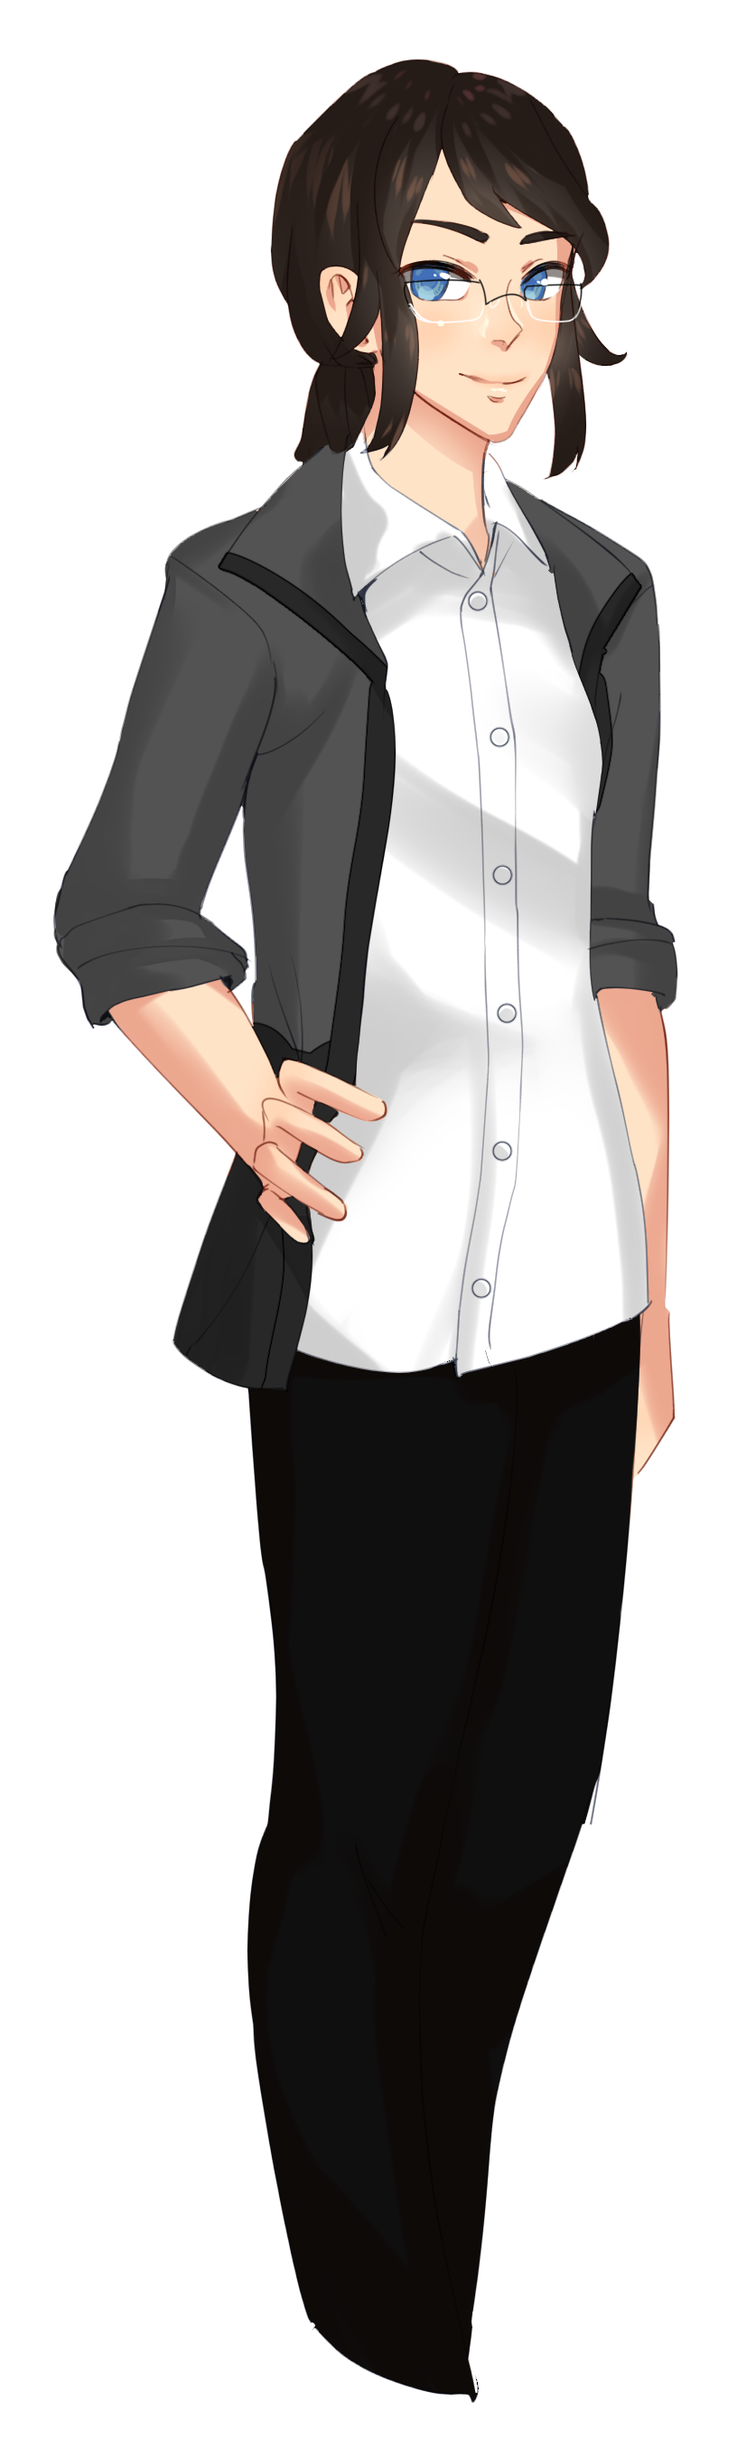
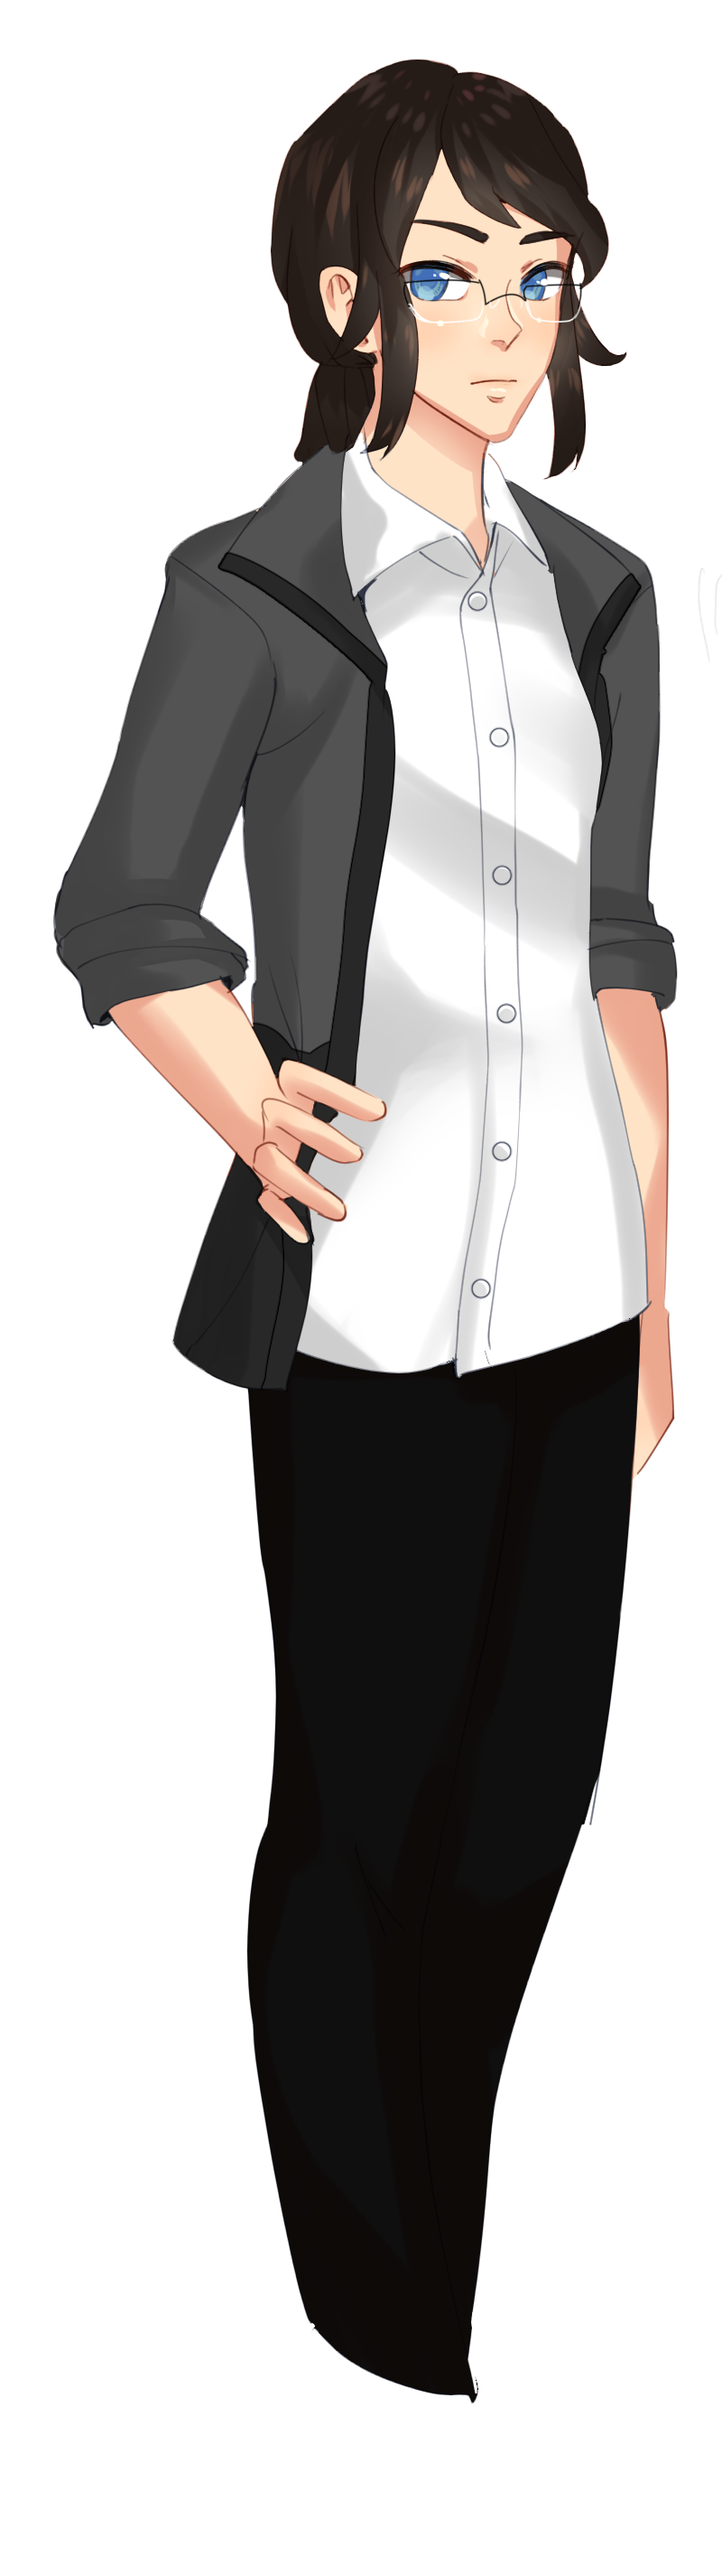
added images and changed css to fit ryders images

diff --git a/src/cutie/delta.ts b/src/cutie/delta.ts
@@ -28,7 +28,14 @@ export enum TriggerType {
 // ------ NOTE: This is an example implementation of a sequence of deltas
 // ------       For more complex behaviors, some sort of class that generates a tree of these is probably necessary
 const holmes1: Delta = {
-  character: CutieName.HOLMES,
+  character: null,
+  expression: CutieExpression.NEUTRAL,
+  background: BackgroundState.ROOM_DAY,
+  text: 'Let\'s begin, shall we?'
+} as Delta
+
+const ryder1: Delta = {
+  character: null,
   expression: CutieExpression.NEUTRAL,
   background: BackgroundState.ROOM_DAY,
   text: 'Let\'s begin, shall we?'
@@ -57,7 +64,7 @@ const holmesMorning: Delta = {
 
 const holmesDay: Delta = {
   character: null,
-  expression: CutieExpression.CURIOUS,
+  expression: CutieExpression.HAPPY,
   background: BackgroundState.ROOM_DAY,
   text: 'Did you get lunch yet?'
 } as Delta

diff --git a/src/cutie/gui.ts b/src/cutie/gui.ts
@@ -43,6 +43,8 @@ export class CutieGui {
      * @param expression: The corresponding expression to load
      */
   public changeExpression (expression: CutieExpression) {
+    console.log(images);
+    console.log(`./cutie_images/${this.cutieName}/${expression}.png`);
     const img: HTMLImageElement = document.querySelector(HtmlElementId.CUTIE_IMG);
     img.src = images[`./cutie_images/${this.cutieName}/${expression}.png`];
   }

diff --git a/src/renderer.ts b/src/renderer.ts
@@ -37,7 +37,7 @@ import { CutieEvent, CutieName, TimeOfDay } from './constants'
 import { EventFlags } from './event_flags'
 
 
-const cpane: CutiePane = new CutiePane(CutieName.HOLMES);
+const cpane: CutiePane = new CutiePane(CutieName.RYDER);
 const qpane: QuillPane = new QuillPane();
 
 class Monitor {

diff --git a/src/css/index.css b/src/css/index.css
@@ -36,8 +36,11 @@
 .cutie-image{
   position: absolute;
   bottom: 0px;
-  height: 90%;
-  z-index:2
+  height: 200%;
+  top: 2vh;
+  left: -10w;
+  margin-left: -25px;
+  z-index: 2;
 }
 
 .textbox {
